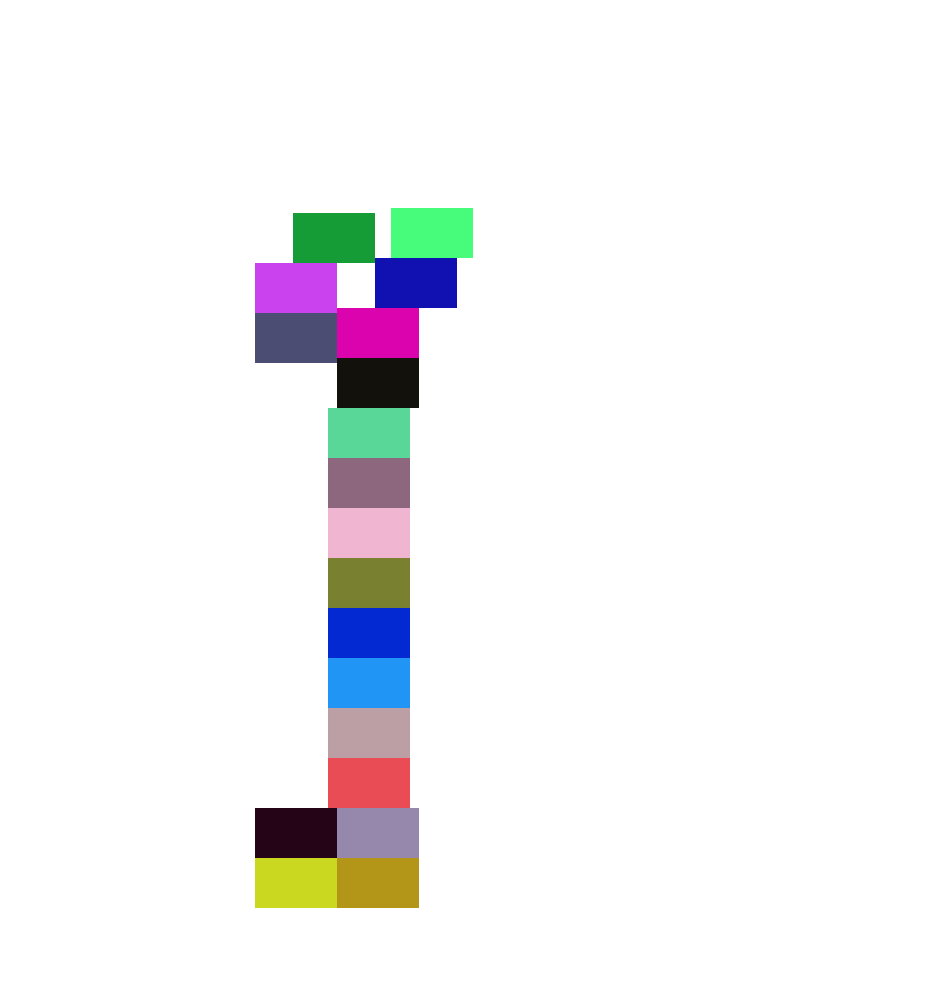
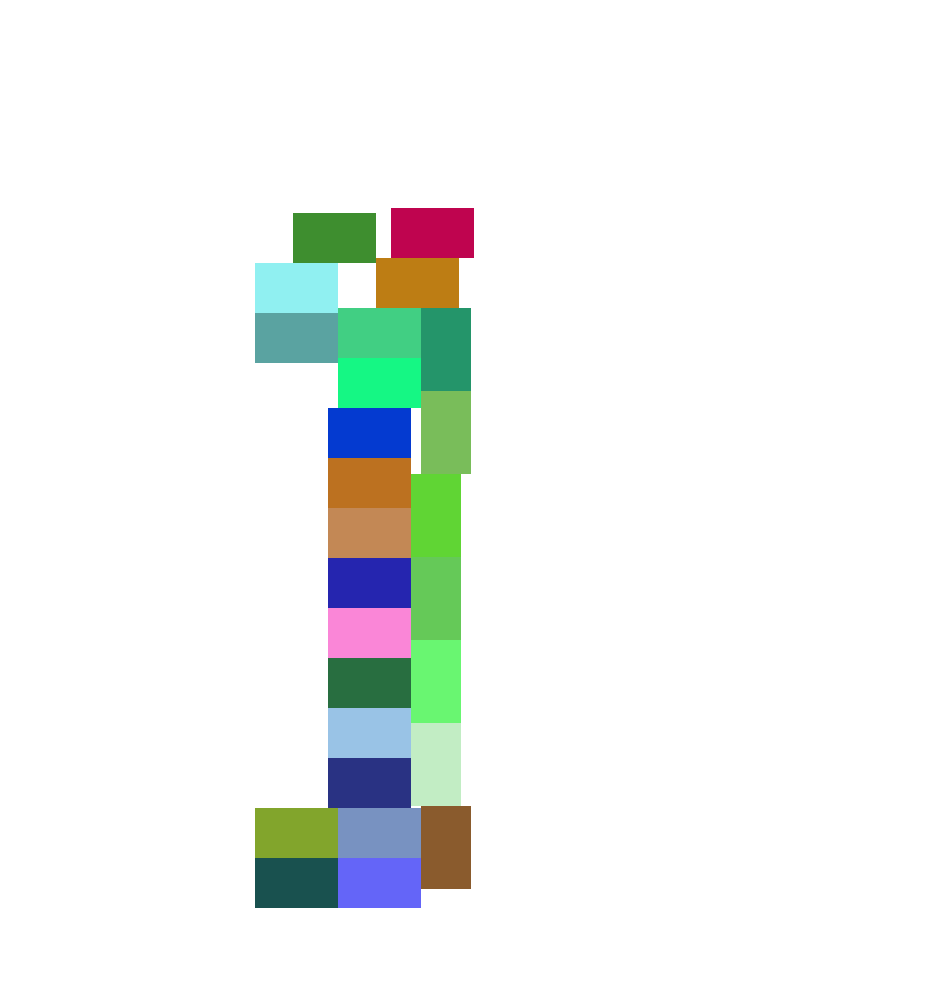
locação alternada entre vertical e horizontal

Changed region(s): [[0.2442, 0.186, 0.5189, 0.93]]

diff --git a/PanelPlacer.py b/PanelPlacer.py
@@ -167,6 +167,14 @@ def execute_placing(i,j):
         #for b in range (i-1-(panel_pix_y//2), i+1+(panel_pix_y//2), 1):
             #print(placas_locadas[a][b])
 """
+def alternate_orientation():
+    global panel_pix_x, panel_pix_y
+    temp_pix_x = panel_pix_x
+    temp_pix_y = panel_pix_y
+    panel_pix_x = temp_pix_y
+    panel_pix_y = temp_pix_x
+
+
 def placing_possible(i,j):
     #print("I atual: {}".format(i))
     #print("J atual: {}".format(j))
@@ -195,8 +203,56 @@ def execute_placing(i,j):
             #print(placas_locadas[a][b])
 
 
-
 def place_panels():
+    global placas_counter
+    x_axis = 0
+    y_axis = 0
+    for i in range(((panel_pix_y)+1), len(placas_locadas) - ((panel_pix_y)+1),1):
+        print("Etapa {} de {}".format(i,len(placas_locadas)))
+        for j in range(((panel_pix_x)+1),len(placas_locadas[0]) - ((panel_pix_x)+1),1):
+            #print("Estamos no ponto {} {}".format(i,j))
+            if placing_possible(i,j) == True:
+                placas_counter += 1
+                execute_placing(i,j)
+                lista_placas.append(Placa(placas_counter, area_de_interesse[i][j]))
+                print("---------------------------")
+                print("Placa locada: eixo {} {}".format(i,j))
+                print("---------------------------")
+            else:   #apenas por motivos de debug
+                where_looking[i][j] = 1
+                continue
+
+
+def place_panels_alternate_orient():
+    global placas_counter
+    x_axis = 0
+    y_axis = 0
+    for i in range((maior(panel_pix_y,panel_pix_x)+1), len(placas_locadas) - ((maior(panel_pix_y,panel_pix_x))+1),1):
+        print("Etapa {} de {}".format(i,len(placas_locadas)))
+        for j in range(((maior(panel_pix_y,panel_pix_x))+1),len(placas_locadas[0]) - ((maior(panel_pix_y,panel_pix_x))+1),1):
+            #print("Estamos no ponto {} {}".format(i,j))
+            if placing_possible(i,j) == True:
+                placas_counter += 1
+                execute_placing(i,j)
+                lista_placas.append(Placa(placas_counter, area_de_interesse[i][j]))
+                print("---------------------------")
+                print("Placa locada: eixo {} {}".format(i,j))
+                print("---------------------------")
+            else:
+                alternate_orientation()
+                if placing_possible(i,j) == True:
+                    placas_counter += 1
+                    execute_placing(i,j)
+                    lista_placas.append(Placa(placas_counter, area_de_interesse[i][j]))
+                    print("---------------------------")
+                    print("Placa locada: eixo {} {}".format(i,j))
+                    print("---------------------------")
+                alternate_orientation()
+                where_looking[i][j] = 1
+                continue
+
+
+def place_panels_aligned():
     global placas_counter, axis_lock, panel_pix_x, panel_pix_y
     x_axis = 0
     y_axis = 0
@@ -232,7 +288,7 @@ def place_panels():
                         print("---------------------------")
                         print("Placa locada: eixo {} {}".format(i,j))
                         print("---------------------------")
-                    elif abs(i-y_axis) => panel_pix_y and abs(j-x_axis) => panel_pix_x:
+                    elif abs(i-y_axis) >= panel_pix_y and abs(j-x_axis) >= panel_pix_x:
                         placas_counter += 1
                         execute_placing(i,j)
                         lista_placas.append(Placa(placas_counter, area_de_interesse[i][j]))
@@ -350,7 +406,7 @@ print(area_de_interesse.shape)
 print(heatmap.shape)
 print(placas_locadas.shape)
 
-place_panels()
+place_panels_alternate_orient()
 placas_img()
 
 print(placas_locadas)
